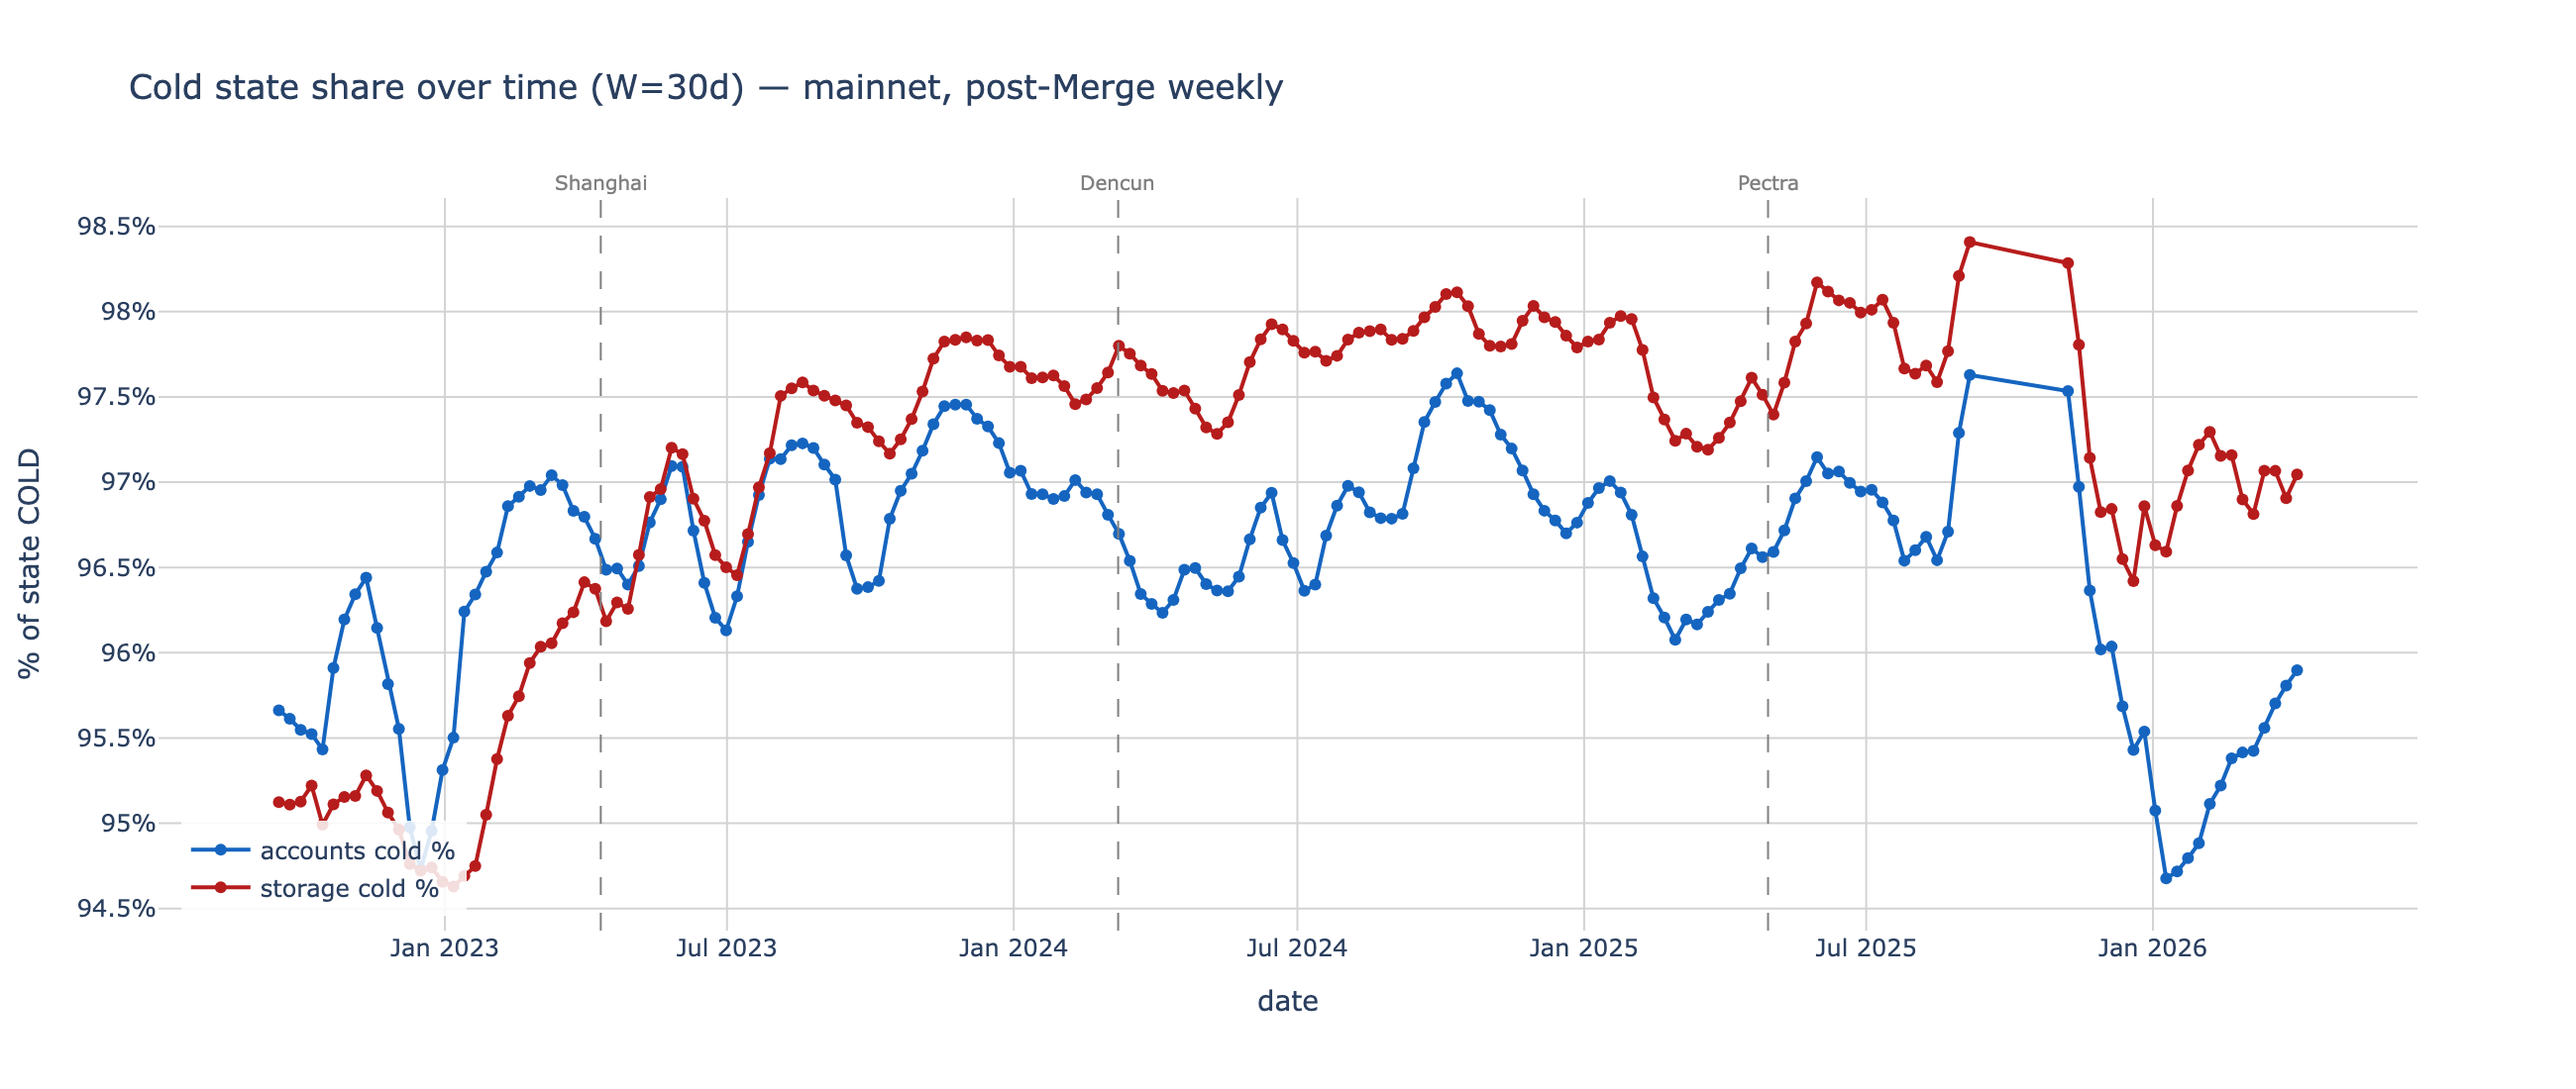
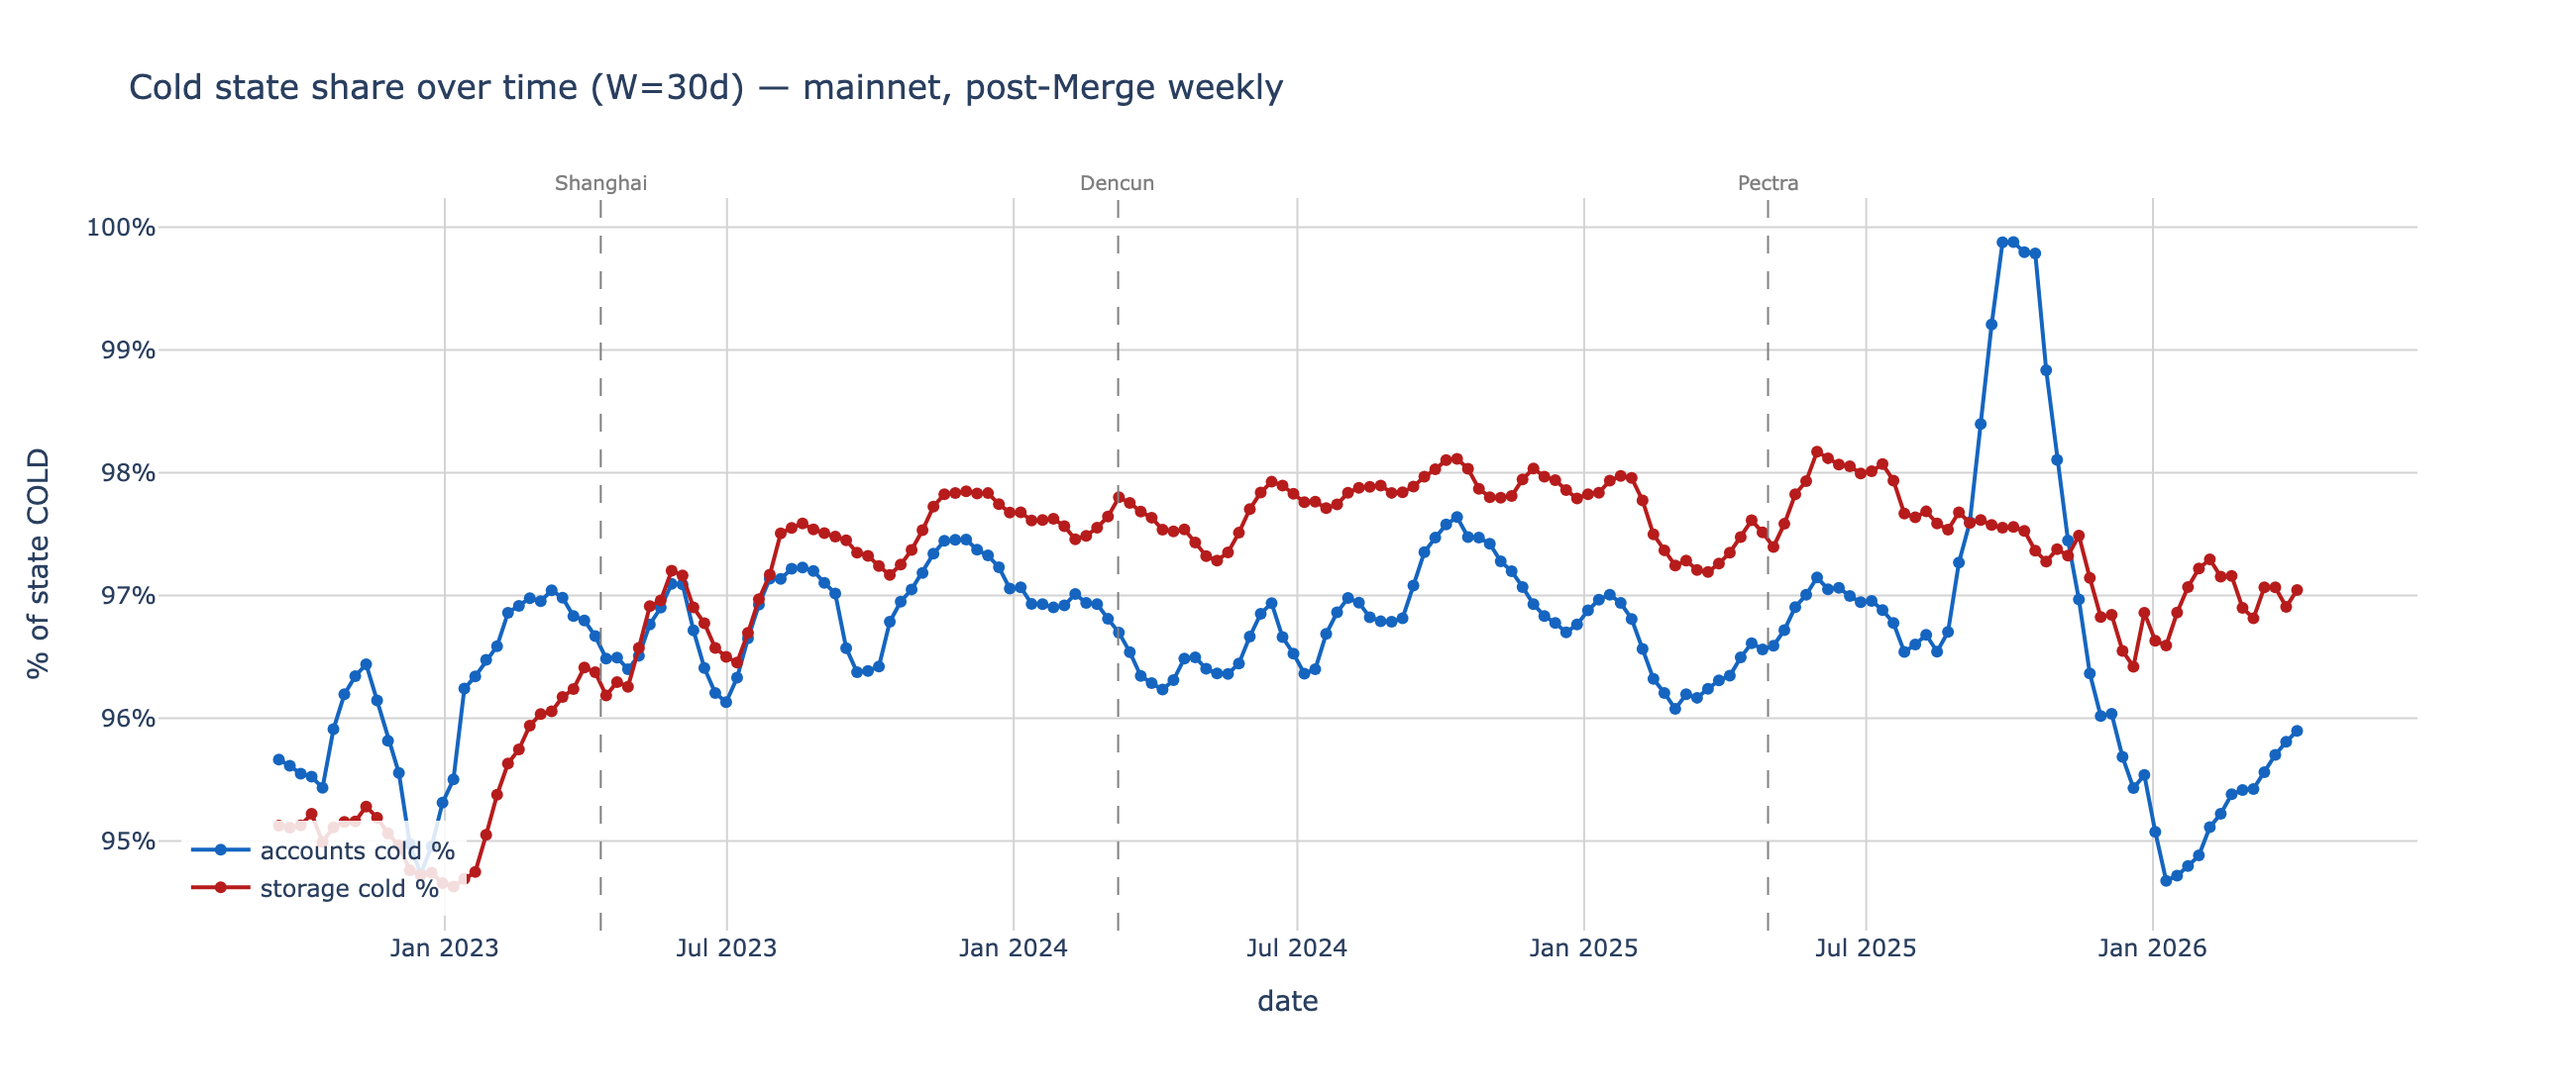
Refresh analyses after storage_diffs backfill
W=180 storage slots corrected 227.7M->242.5M; historical sweep refilled
13 gap-affected anchors (now 0 excluded, full 186-anchor timeline).

diff --git a/state_access/README.md b/state_access/README.md
@@ -35,13 +35,12 @@ uv run python -m state_access.analysis_history   # 3 trend charts
 
 Outputs: `data/history_w30.parquet` and `history_{state_cold,writes_cold,gas_concentration}.png`.
 
-**Data-quality note:** the personal node has a storage-diff ingestion gap — blocks
-~23,270,400 → 23,659,200 (~54 days, ~late-Aug to mid-Oct 2025) are only ~0.5–1% present
-(normal through block 23,263,200; recovered by 23,666,400). A smaller dip sits at
-~23,097,600–23,112,000 (~4% present). Anchors whose 30-day window overlaps the main gap
-report implausibly few slots, so `analysis_history.py` drops anchors below 70% of the median
-storage-slot count (8 of 186) from the charts. Every anchor — including the dropped ones —
-remains in the parquet. Backfill priority: blocks 23,263,200 → 23,666,400.
+**Data-quality note:** the personal node originally had a storage-diff ingestion gap
+(blocks ~23,270,400 → 23,659,200, ~54 days, late-Aug–mid-Oct 2025, plus a small dip at
+~23,097,600–23,112,000). It has since been backfilled from the ethPandaOps cluster via
+`scripts/backfill_storage_diffs.py`, restoring the region to ~99.9% coverage. `analysis_history.py`
+keeps a safety filter that drops anchors below 70% of the median storage-slot count; with the
+gap filled it now excludes 0 of 186.
 
 ## How it differs from the original
 
